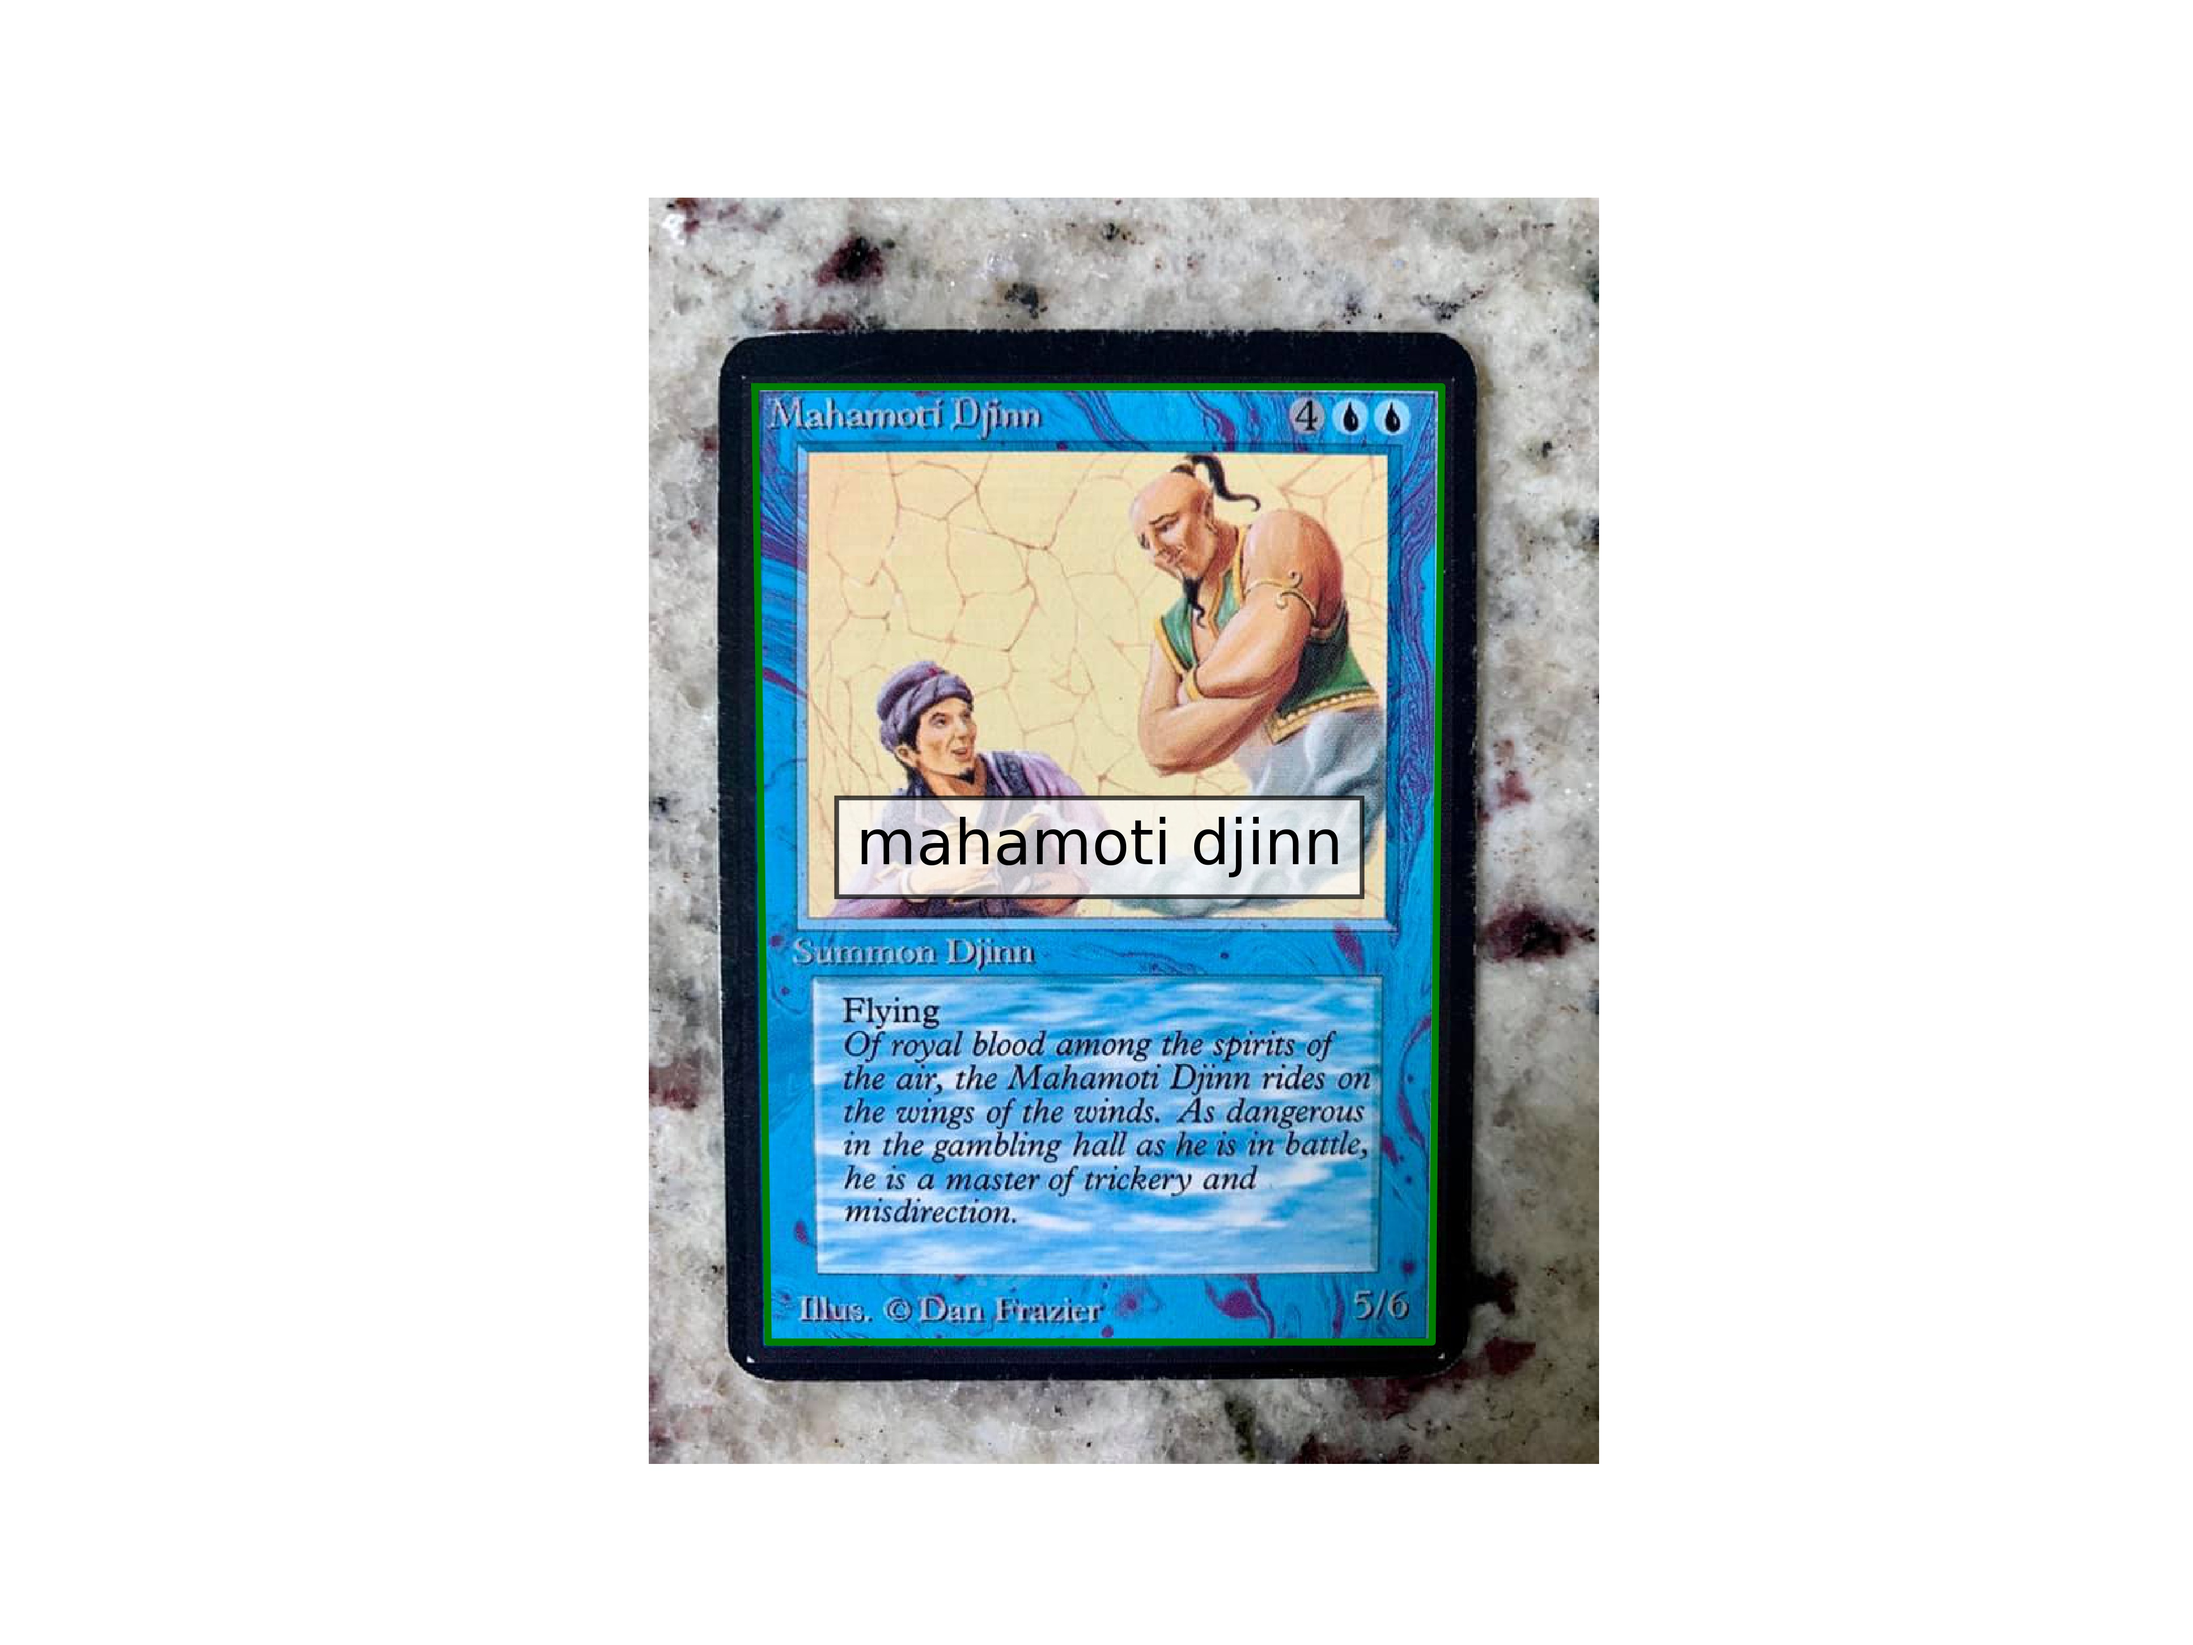
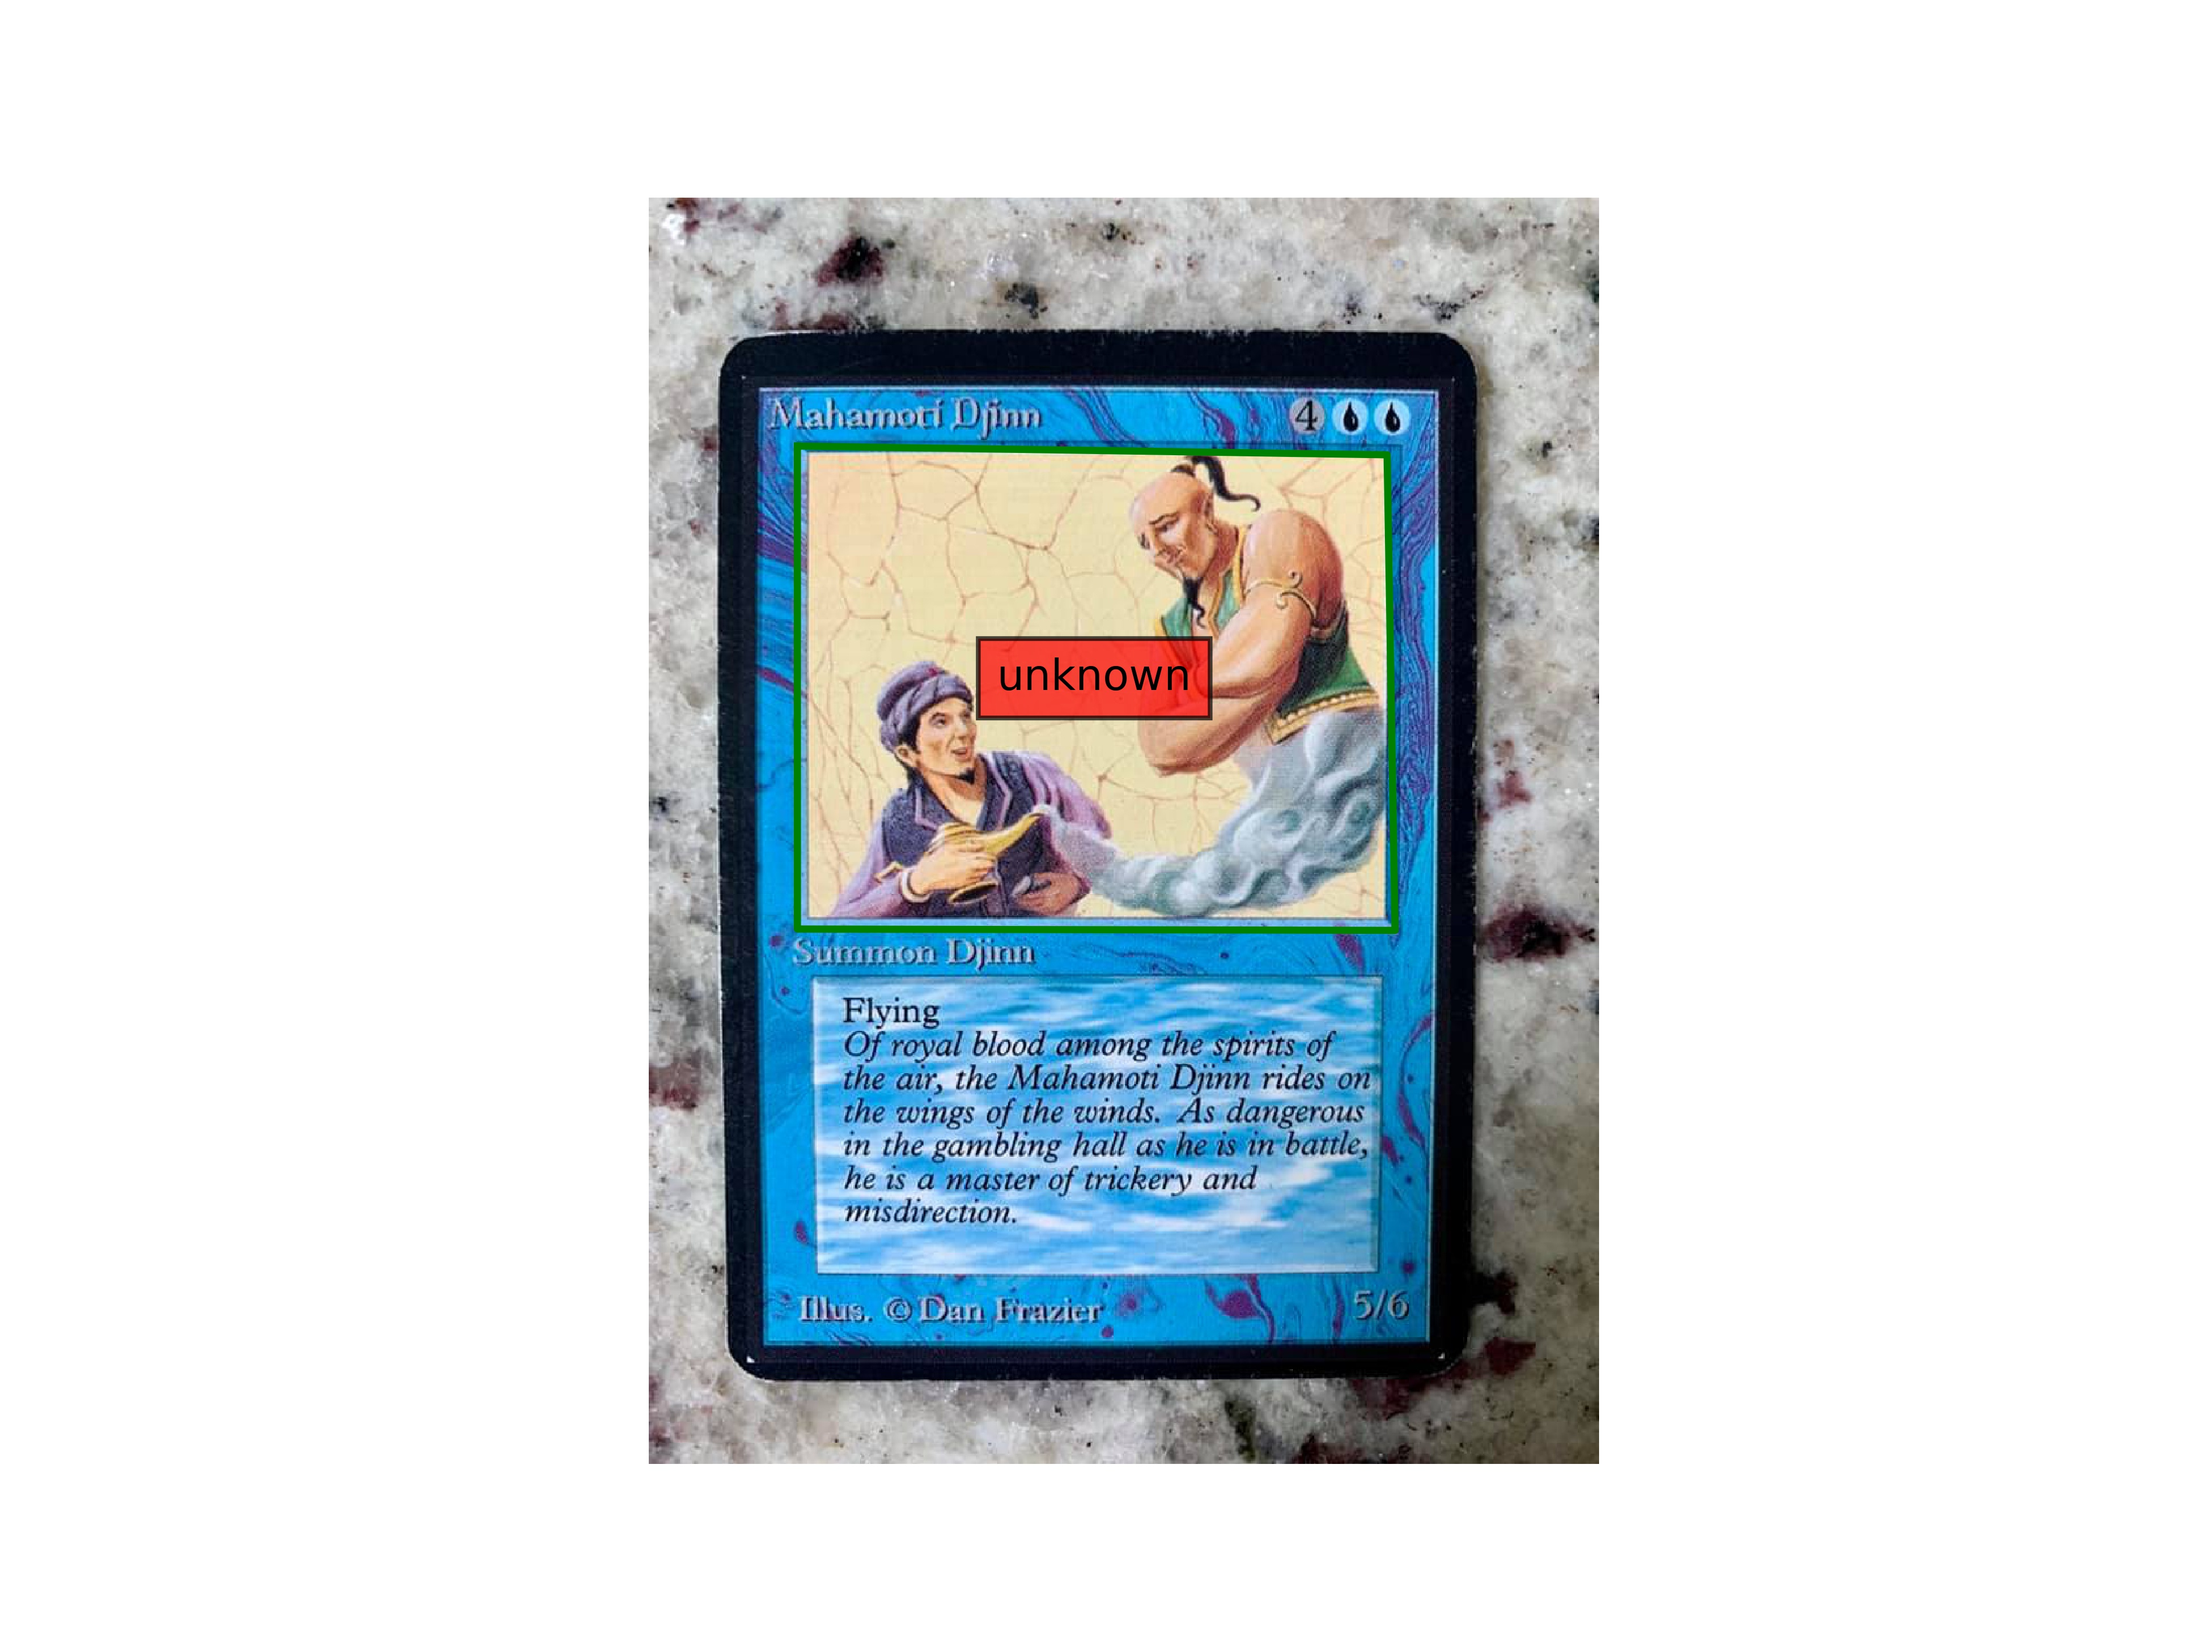
implemented image resize upon load

Changed region(s): [[0.3438, 0.2188, 0.6562, 0.8438], [0.4375, 0.375, 0.5625, 0.4375]]

diff --git a/magic_card_detector.py b/magic_card_detector.py
@@ -353,7 +353,7 @@ def characterize_card_contour(card_contour,
             0.1 * max_segment_area < bounding_poly.area <
             image_area * 0.99 and
             qc_diff < 0.35 and
-            polygon_form_factor(bounding_poly) < 0.33)
+            0.25 < polygon_form_factor(bounding_poly) < 0.33)
 
     return (continue_segmentation,
             is_card_candidate,
@@ -601,11 +601,20 @@ class MagicCardDetector:
         """
         Reads and histogram-adjusts the test image set.
         """
+        maxsize = 1000
         print('Reading images from ' + str(path))
         print('...', end=' ')
         filenames = glob.glob(path + '*.jpg')
         for filename in filenames:
             img = cv2.imread(filename)
+            #resize?
+            if min(img.shape[0], img.shape[1]) > maxsize:
+                scalef = maxsize / min(img.shape[0], img.shape[1])
+                img = cv2.resize(img,
+                                 (int(img.shape[1] * scalef),
+                                  int(img.shape[0] * scalef)),
+                                  interpolation = cv2.INTER_AREA)
+
             img_name = filename.split(path)[1]
             self.test_images.append(
                 TestImage(img_name, img, self.clahe))
@@ -618,13 +627,19 @@ class MagicCardDetector:
         gray = cv2.cvtColor(full_image, cv2.COLOR_BGR2GRAY)
         if thresholding == 'adaptive':
             fltr_size = 1 + 2 * (min(full_image.shape[0],
-                                     full_image.shape[1]) // 20)
+                                     full_image.shape[1]) // 8)
             thresh = cv2.adaptiveThreshold(gray,
                                            255,
                                            cv2.ADAPTIVE_THRESH_GAUSSIAN_C,
                                            cv2.THRESH_BINARY,
                                            fltr_size,
-                                           5)
+                                           20)
+        elif thresholding == 'otsu':
+            gray = cv2.GaussianBlur(gray,(3,3),0)
+            _, thresh = cv2.threshold(gray,
+                                      10,
+                                      255,
+                                      cv2.THRESH_BINARY + cv2.THRESH_OTSU)
         else:
             _, thresh = cv2.threshold(gray,
                                       70,
@@ -665,6 +680,12 @@ class MagicCardDetector:
         if mode == 'gray':
             contours = self.contour_image_gray(full_image,
                                                thresholding='simple')
+        elif mode == 'otsu':
+            contours = self.contour_image_gray(full_image,
+                                               thresholding='otsu')
+        elif mode == 'adaptive':
+            contours = self.contour_image_gray(full_image,
+                                               thresholding='adaptive')
         elif mode == 'rgb':
             contours = self.contour_image_rgb(full_image)
         elif mode == 'all':
@@ -787,7 +808,7 @@ class MagicCardDetector:
         print('Segmentating card candidates out of the image...')
 
         test_image.candidate_list.clear()
-        self.segment_image(test_image, contouring_mode='gray')
+        self.segment_image(test_image, contouring_mode='adaptive')
 
         print('Done. Found ' +
               str(len(test_image.candidate_list)) + ' candidates.')
